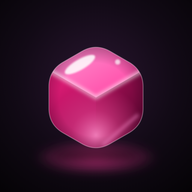
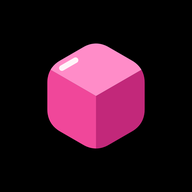
アイコンをシンプルな平面のグミの立方体に、開発者のしるしを付けるアカウントを登録
Claude-Session: https://claude.ai/code/session_01YBFuc7q2NdYfEsqi2uB9gm

diff --git a/src/cloud/model.ts b/src/cloud/model.ts
@@ -32,7 +32,7 @@ export const PASSWORD_MIN = 8;
  * 開発者のアカウント（名前の横に「開発者」のしるしを出す）。
  * UID はログインの番号で、公開しても困らない（なりすましもできない）。メールアドレスは書かない
  */
-export const DEVELOPER_UIDS: string[] = [];
+export const DEVELOPER_UIDS: string[] = ['WrJppVm6T2VDHKUC1otLdn9rC7w1'];
 export const isDeveloper = (uid: string): boolean => DEVELOPER_UIDS.includes(uid);
 
 // ---- アイコン ----

diff --git a/design/icon.py b/design/icon.py
@@ -1,89 +1,37 @@
-# アプリアイコン（グミの立方体）の元。python3 design/icon.py で icon.svg を作り、1024px で書き出して public/ の各サイズにする
+# アプリアイコン（グミの立方体・シンプル版）。python3 design/icon.py で icon.svg を作る
 import math
 S = 1024
-cx, cy, s = 512, 520, 290
-k = math.cos(math.pi/6)
-T  = (cx, cy - s)
-UR = (cx + s*k, cy - s/2)
-LR = (cx + s*k, cy + s/2)
-B  = (cx, cy + s)
-LL = (cx - s*k, cy + s/2)
-UL = (cx - s*k, cy - s/2)
-C  = (cx, cy)
+cx, cy, s = 512, 512, 300
+k = math.cos(math.pi / 6)
+T, UR, LR = (cx, cy - s), (cx + s * k, cy - s / 2), (cx + s * k, cy + s / 2)
+B, LL, UL, C = (cx, cy + s), (cx - s * k, cy + s / 2), (cx - s * k, cy - s / 2), (cx, cy)
 
 def rounded(pts, r):
     """角を丸めた多角形のパス"""
-    n = len(pts); d = ''
-    for i in range(n):
-        p0, p1, p2 = pts[i-1], pts[i], pts[(i+1) % n]
+    d = ''
+    for i in range(len(pts)):
+        p0, p1, p2 = pts[i - 1], pts[i], pts[(i + 1) % len(pts)]
         def toward(a, b, t):
-            L = math.dist(a, b); return (a[0] + (b[0]-a[0])*t/L, a[1] + (b[1]-a[1])*t/L)
-        a = toward(p1, p0, r); b = toward(p1, p2, r)
+            L = math.dist(a, b)
+            return (a[0] + (b[0] - a[0]) * t / L, a[1] + (b[1] - a[1]) * t / L)
+        a, b = toward(p1, p0, r), toward(p1, p2, r)
         d += ('M' if i == 0 else 'L') + f'{a[0]:.1f},{a[1]:.1f} Q{p1[0]:.1f},{p1[1]:.1f} {b[0]:.1f},{b[1]:.1f} '
     return d + 'Z'
 
-def poly(pts):
-    return 'M' + ' L'.join(f'{x:.1f},{y:.1f}' for x, y in pts) + ' Z'
+poly = lambda pts: 'M' + ' L'.join(f'{x:.1f},{y:.1f}' for x, y in pts) + ' Z'
+sil = rounded([T, UR, LR, B, LL, UL], 80)
+# 上の面のつや（左上の辺に沿った短い線）
+a = (UL[0] + (T[0] - UL[0]) * 0.30, UL[1] + (T[1] - UL[1]) * 0.30 + 46)
+b = (UL[0] + (T[0] - UL[0]) * 0.58, UL[1] + (T[1] - UL[1]) * 0.58 + 46)
 
-sil = rounded([T, UR, LR, B, LL, UL], 88)
-top = poly([T, UR, C, UL]); right = poly([C, UR, LR, B]); left = poly([UL, C, B, LL])
-mid = lambda a, b, t=.5: (a[0]+(b[0]-a[0])*t, a[1]+(b[1]-a[1])*t)
-
-def svg(bg=True):
-    return f'''<svg xmlns="http://www.w3.org/2000/svg" viewBox="0 0 {S} {S}" width="{S}" height="{S}">
-<defs>
-  <radialGradient id="bg" cx="50%" cy="42%" r="75%">
-    <stop offset="0" stop-color="#2a1630"/><stop offset=".55" stop-color="#120a16"/><stop offset="1" stop-color="#050306"/>
-  </radialGradient>
-  <radialGradient id="glow" cx="50%" cy="50%" r="50%">
-    <stop offset="0" stop-color="#ff3d9f" stop-opacity=".8"/><stop offset="1" stop-color="#ff3d9f" stop-opacity="0"/>
-  </radialGradient>
-  <linearGradient id="gTop" x1="0" y1="0" x2="1" y2="1">
-    <stop offset="0" stop-color="#ff9ad6"/><stop offset="1" stop-color="#ff3d9f"/>
-  </linearGradient>
-  <linearGradient id="gLeft" x1="0" y1="0" x2=".4" y2="1">
-    <stop offset="0" stop-color="#f0207f"/><stop offset="1" stop-color="#8e0a4c"/>
-  </linearGradient>
-  <linearGradient id="gRight" x1="0" y1="0" x2="1" y2="1">
-    <stop offset="0" stop-color="#b8115f"/><stop offset="1" stop-color="#4a0428"/>
-  </linearGradient>
-  <!-- 下の真ん中から光が透けて見える -->
-  <radialGradient id="inner" cx="{(B[0])/S:.3f}" cy="{(B[1]-90)/S:.3f}" r=".26">
-    <stop offset="0" stop-color="#ff8cc8" stop-opacity=".85"/><stop offset=".5" stop-color="#ff5aa8" stop-opacity=".35"/><stop offset="1" stop-color="#ff5aa8" stop-opacity="0"/>
-  </radialGradient>
-  <!-- ふちほど色が濃い（厚みのあるゼリー） -->
-  <radialGradient id="rim" cx="50%" cy="52%" r="32%">
-    <stop offset=".6" stop-color="#3a0020" stop-opacity="0"/><stop offset="1" stop-color="#3a0020" stop-opacity=".55"/>
-  </radialGradient>
-  <clipPath id="cube"><path d="{sil}"/></clipPath>
-  <filter id="soft" x="-20%" y="-20%" width="140%" height="140%"><feGaussianBlur stdDeviation="10"/></filter>
-  <filter id="soft2" x="-50%" y="-50%" width="200%" height="200%"><feGaussianBlur stdDeviation="26"/></filter>
-  <filter id="soft3" x="-20%" y="-20%" width="140%" height="140%"><feGaussianBlur stdDeviation="4"/></filter>
-</defs>
-{f'<rect width="{S}" height="{S}" fill="url(#bg)"/>' if bg else ''}
-<!-- 下にこぼれる色の光（透けるグミの影） -->
-<ellipse cx="{cx}" cy="{B[1]+30}" rx="330" ry="90" fill="url(#glow)" filter="url(#soft2)"/>
-<ellipse cx="{cx}" cy="{B[1]+18}" rx="230" ry="34" fill="#000" opacity=".55" filter="url(#soft2)"/>
-<g clip-path="url(#cube)">
-  <path d="{left}" fill="url(#gLeft)"/>
-  <path d="{right}" fill="url(#gRight)"/>
-  <path d="{top}" fill="url(#gTop)"/>
-  <!-- 中から光が透けている感じ -->
-  <rect width="{S}" height="{S}" fill="url(#inner)"/>
-  <rect width="{S}" height="{S}" fill="url(#rim)"/>
-  <!-- 面と面の境目をやわらかく -->
-  <path d="M{UL[0]:.1f},{UL[1]:.1f} L{C[0]},{C[1]} L{UR[0]:.1f},{UR[1]:.1f}" fill="none" stroke="#fff" stroke-opacity=".55" stroke-width="22" stroke-linejoin="round" filter="url(#soft)"/>
-  <path d="M{C[0]},{C[1]} L{B[0]},{B[1]}" fill="none" stroke="#ff9fd6" stroke-opacity=".45" stroke-width="18" filter="url(#soft)"/>
-  <!-- 上の面のつや -->
-  <ellipse cx="{mid(UL,T)[0]+40:.1f}" cy="{mid(UL,T)[1]+42:.1f}" rx="92" ry="28" transform="rotate(-30 {mid(UL,T)[0]+40:.1f} {mid(UL,T)[1]+42:.1f})" fill="#fff" opacity=".85" filter="url(#soft3)"/>
-  <circle cx="{mid(T,UR)[0]-10:.1f}" cy="{mid(T,UR)[1]+28:.1f}" r="14" fill="#fff" opacity=".7" filter="url(#soft3)"/>
-  <!-- 左の面の縦のつや -->
-  <path d="M{UL[0]+46:.1f},{UL[1]+90:.1f} L{UL[0]+46:.1f},{LL[1]-30:.1f}" stroke="#fff" stroke-opacity=".5" stroke-width="20" stroke-linecap="round" filter="url(#soft3)"/>
-  <!-- 右下のふちの照り返し -->
-  <path d="M{B[0]+40:.1f},{B[1]-40:.1f} L{LR[0]-30:.1f},{LR[1]-50:.1f}" stroke="#ff8fcf" stroke-opacity=".6" stroke-width="14" stroke-linecap="round" filter="url(#soft)"/>
+svg = f'''<svg xmlns="http://www.w3.org/2000/svg" viewBox="0 0 {S} {S}" width="{S}" height="{S}">
+<rect width="{S}" height="{S}" fill="#000"/>
+<clipPath id="c"><path d="{sil}"/></clipPath>
+<g clip-path="url(#c)">
+  <path d="{poly([UL, C, B, LL])}" fill="#f0479a"/>
+  <path d="{poly([C, UR, LR, B])}" fill="#c2287a"/>
+  <path d="{poly([T, UR, C, UL])}" fill="#ff8cc8"/>
 </g>
-<!-- ふちの細い光 -->
-<path d="{sil}" fill="none" stroke="#ffd6ef" stroke-opacity=".35" stroke-width="5"/>
+<path d="M{a[0]:.1f},{a[1]:.1f} L{b[0]:.1f},{b[1]:.1f}" stroke="#fff" stroke-width="30" stroke-linecap="round" opacity=".9"/>
 </svg>'''
-
-open('icon.svg', 'w').write(svg(True))
+open('icon.svg', 'w').write(svg)
